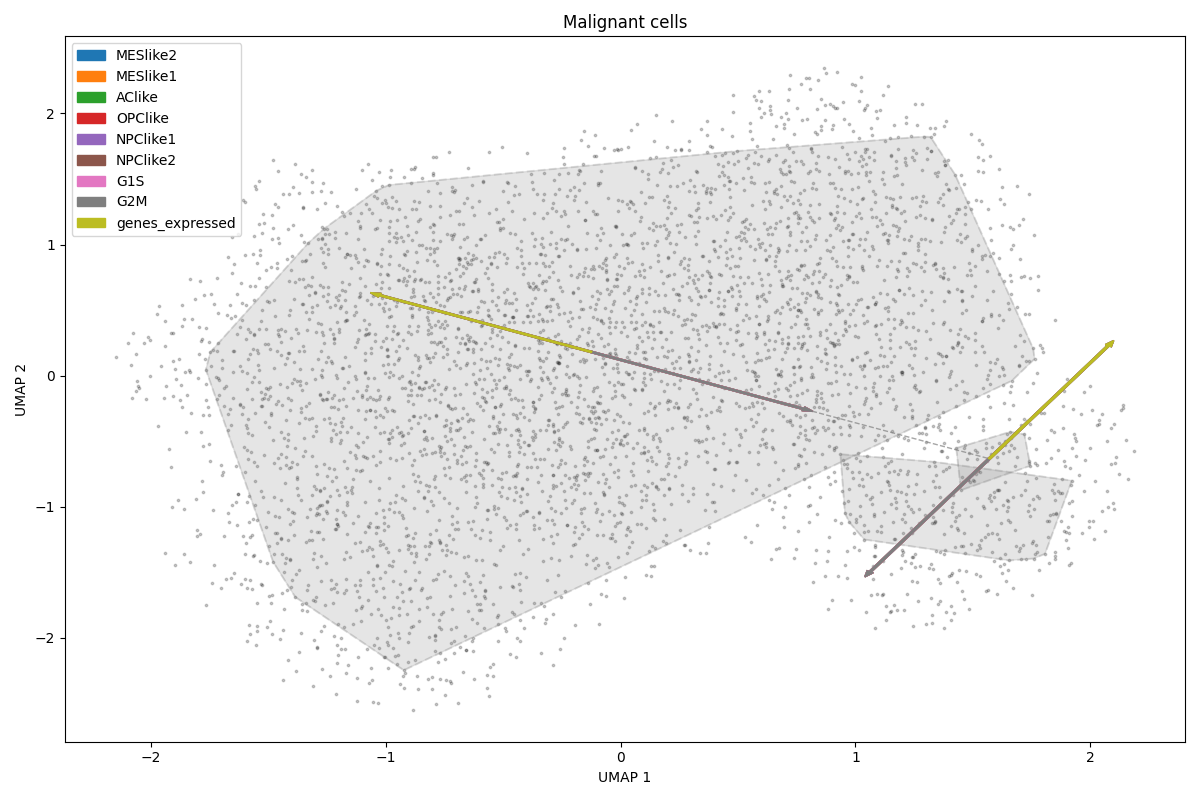
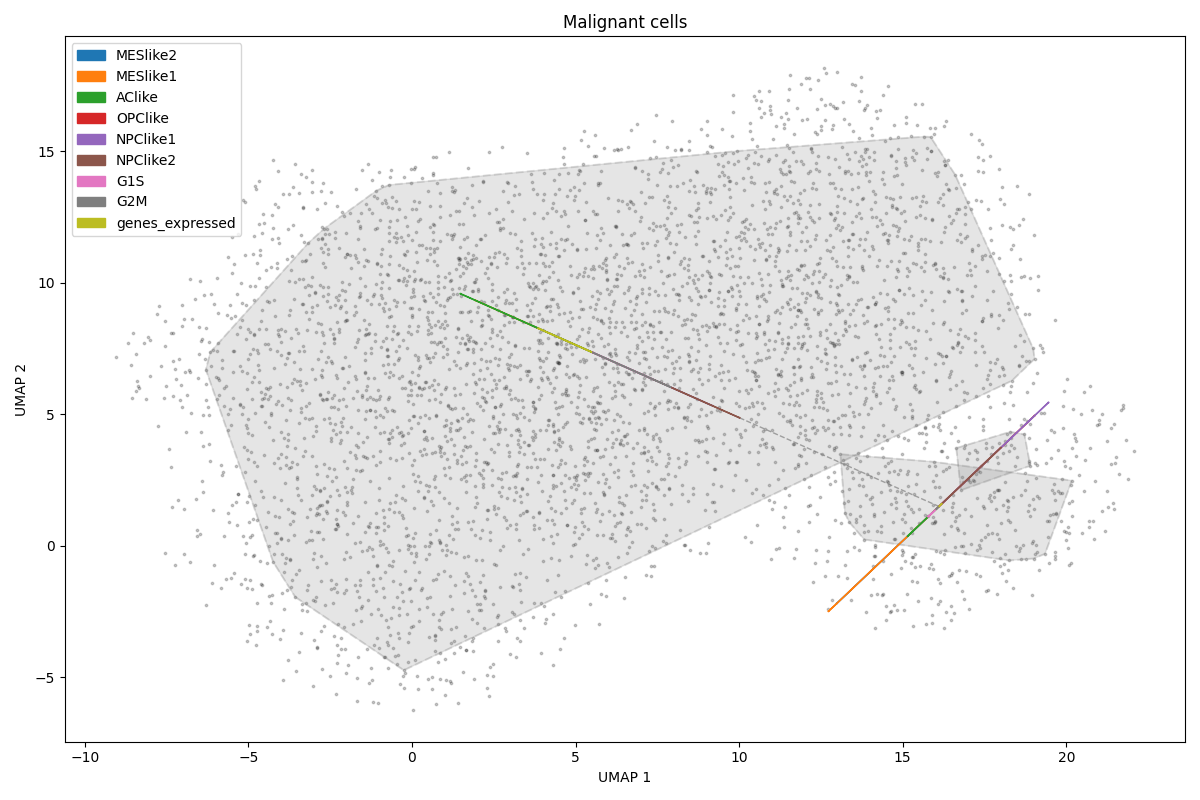
Fix scaling and standartization

diff --git a/src/plot.py b/src/plot.py
@@ -23,8 +23,9 @@ class NonLinearClock():
                  observations: list, 
                  low_dim_data: np.ndarray = None, 
                  high_dim_labels: pd.DataFrame = None,
-                 cluster_labels: np.ndarray = None,
-                 method: str = ""):
+                 method: str = "",
+                 cluster_labels: np.ndarray = None
+                 ):
         
         self.high_dim_data = high_dim_data
         self.observations = observations
@@ -154,7 +155,8 @@ class NonLinearClock():
         coefs, _, is_significant = self._get_importance(self.high_dim_data.to_numpy(), self.projections, univar=univar_importance, significance=feature_significance)
         
         if standartize_coef:
-            coefs = (coefs - coefs.mean()) / coefs.std()  #FIXME scale globally
+            sign_coef = coefs / np.abs(coefs)
+            coefs = (coefs - coefs.mean() * sign_coef) / coefs.std()  #FIXME
             if np.isnan(coefs).any():
                 coefs = np.nan_to_num(coefs)
                 warnings.warn("NaNs were introduced after standartizing coefficients and were replaced by 0.")
@@ -314,14 +316,17 @@ class NonLinearClock():
         if draw_hulls:
             self._draw_clusters(ax, data, alpha)
         # c=data["label"], cmap="viridis",  vmin=data["label"].min(), vmax=data["label"].max(), 
-        sc = plt.scatter(data["emb1"], data["emb2"], color='black', s=3, alpha=alpha)
+        sc = plt.scatter(data["emb1"], data["emb2"], color='gray', s=3, alpha=alpha)
         # fig.colorbar(sc)
         return fig, ax
     
-    def _plot_small(self, fig, ax, data, angles_shift, angles, coefs, is_significant, labels, plot_title: str, biggest_arrow: bool = True, scale_circle: float = 1.0, annotate: float = 0.2):
+    def _plot_small(self, fig, ax, data, angles_shift, angles, coefs, is_significant, labels, plot_title: str, biggest_arrow: bool = True, scale_circle: float = 1.0, annotate: float = 0.2, move_circle: list = [0, 0]):
         colors = list(mcolors.TABLEAU_COLORS.keys())
         x_center, y_center = self._get_center(data)
-        
+
+        x_center += move_circle[0]
+        y_center += move_circle[1]
+
         radius = np.abs(coefs).max() * scale_circle
         self._get_cmin_cmax(coefs)
 
@@ -376,7 +381,9 @@ class NonLinearClock():
         fig, ax = self._get_plot(plt, self.low_dim_data, True)
 
         # FIXME
-        scale_circle = [0.25, 0.25, 0.25]
+        # Neftel
+        scale_circle = [1, 0.25, 0.25]
+        move_circle = [[0, 0], [0.3, 0.3], [-0.1, -0.4]]
         annotate = [0.2, 0.1, 0.1]
 
         #FIXME global normalization: first compute coefficients then normalize
@@ -394,9 +401,15 @@ class NonLinearClock():
             all_coeffs.append(coefs)
             all_is_significant.append(is_significant)
 
+        mean_coef = np.array(all_coeffs).mean()
+        std_coef = np.array(all_coeffs).std()
+
         for i, cl in enumerate(dist_clusters):
             a = 1.0
             scale = 0.05
+
+            scale = scale_circle[i]
+            a = annotate[i]
 
             ind = (self.low_dim_data["cluster"] == cl).values.reshape((self.low_dim_data.shape[0], 1))
 
@@ -405,12 +418,13 @@ class NonLinearClock():
             data_cl = self.low_dim_data[ind]
             
             if standartize_coef:
-                coefs = (coefs - np.array(all_coeffs).mean()) / np.array(all_coeffs).std() #FIXME
+                sign_coef = coefs / np.abs(coefs)
+                coefs = (coefs - mean_coef * sign_coef) / std_coef #FIXME
                 if np.isnan(coefs).any():
                     coefs = np.nan_to_num(coefs)
                     warnings.warn("NaNs were introduced after standartizing coefficients and were replaced by 0.")
             
-            arrows = self._plot_small(fig, ax, data_cl, 45, self.angles, coefs, is_significant, self.observations, scale_circle=scale, annotate=a, biggest_arrow=biggest_arrow, plot_title=plot_title)
+            arrows = self._plot_small(fig, ax, data_cl, 45, self.angles, coefs, is_significant, self.observations, scale_circle=scale, annotate=a, biggest_arrow=biggest_arrow, plot_title=plot_title, move_circle=move_circle[i])
             arrows_all.extend(arrows)
             
         plt.legend(arrows_all, self.observations)
@@ -516,7 +530,8 @@ class NonLinearClock():
         coefs, _, is_significant = self._get_importance(self.high_dim_data.to_numpy(), self.mst_proj, univar=univar_importance, significance=feature_significance)
         
         if standartize_coef:
-            coefs = (coefs - coefs.mean()) / coefs.std() #FIXME axis=0
+            sign_coef = coefs / np.abs(coefs)
+            coefs = (coefs - coefs.mean() * sign_coef) / coefs.std() #FIXME
             if np.isnan(coefs).any():
                 coefs = np.nan_to_num(coefs)
                 warnings.warn("NaNs were introduced after standartizing coefficients and were replaced by 0.")

diff --git a/test/test_neftel.py b/test/test_neftel.py
@@ -93,12 +93,12 @@ def test_between():
 
     plot_inst = NonLinearClock(X_new, obs, standard_embedding, labels, "UMAP")
     plot_inst.plot_clocks(plot_title="Malignant cells", 
-                          plot_big_clock=True, 
+                          plot_big_clock=False, 
                           plot_small_clock=True,
-                          plot_between_cluster=True,
+                          plot_between_cluster=False,
                           standartize_data=True,
                           standartize_coef=True,
-                          biggest_arrow_method=False,
+                          biggest_arrow_method=True,
                           univar_importance=True,
                           save_path_big="plots/new/big_1_circle.png",
                           save_path_small="plots/new/small_1_circle.png",
@@ -173,7 +173,7 @@ def print_neftel_all():
 
 # test_umap()
 
-# test_between()
-print_neftel_all()
+test_between()
+# print_neftel_all()
 # test_between_tsne()
 # test_between_phate()
